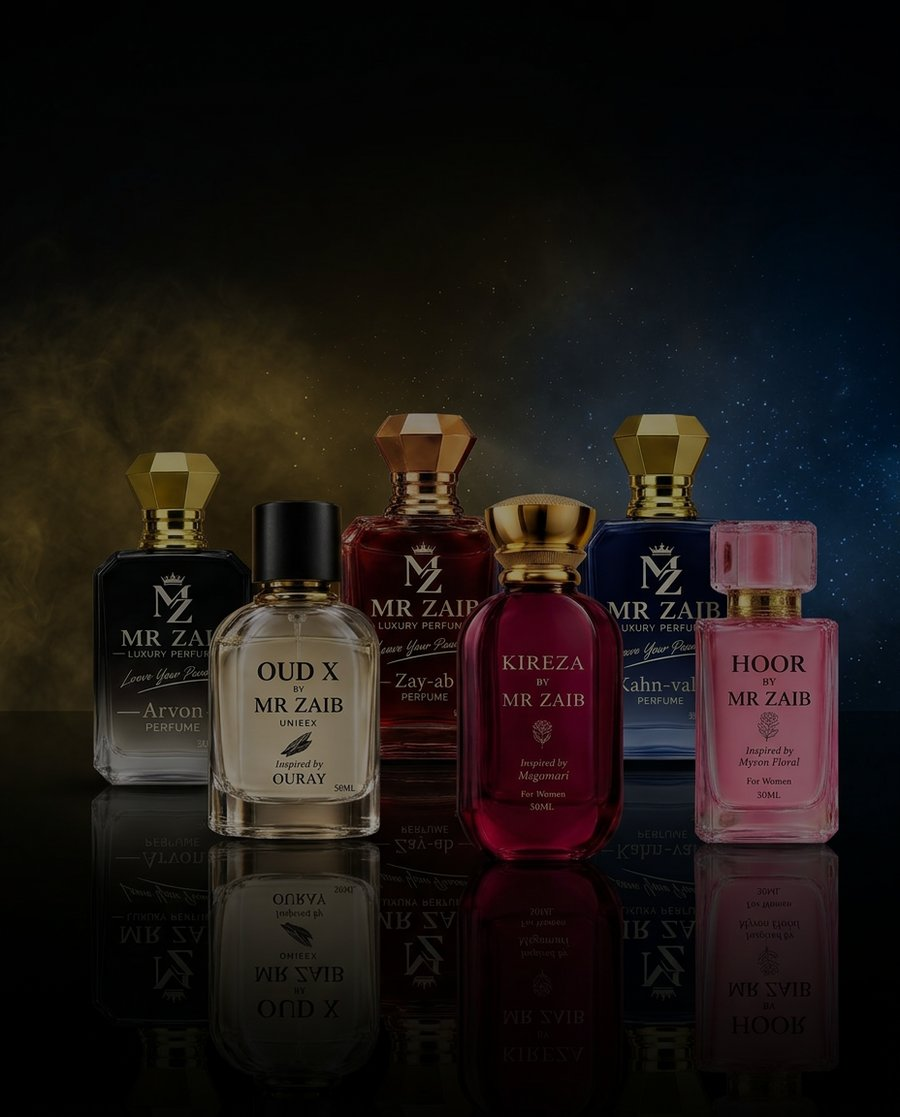
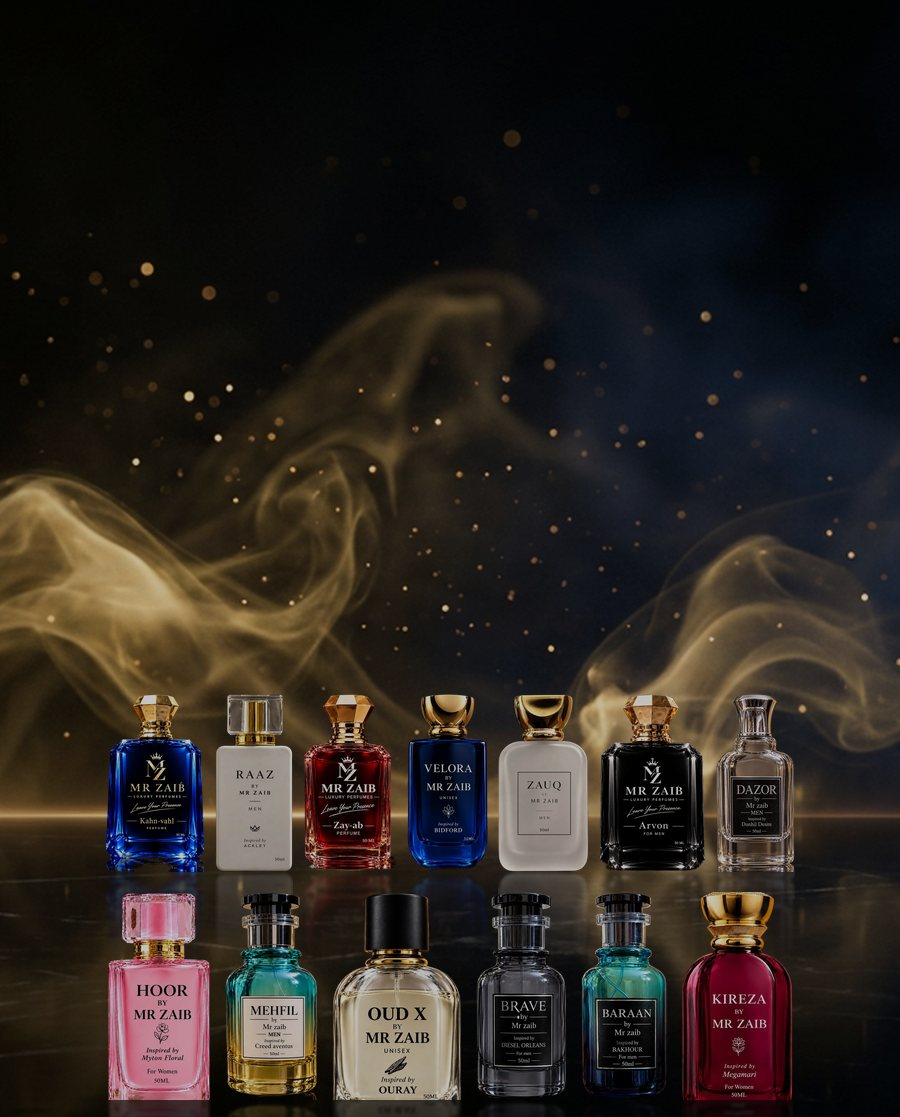
Home: hero slides 8-14 (RAAZ, Velora, ZAUQ, Mehfil, Dazor, Brave, Baraan), promo band and Trusted bg with all 13 bottles, SEO text v4 with new products

diff --git a/inc/home-defaults.php b/inc/home-defaults.php
@@ -6,43 +6,60 @@
  */
 
 function mrzaib_seo_default_intro() {
-	return '<strong>MR ZAIB Luxury Perfumes</strong> is a Pakistani perfume brand creating <strong>long lasting perfumes</strong> for men, women and unisex lovers. Our promise is simple: <em>Leave Your Presence</em>. Choose from six signature 50ml fragrances: the fresh aquatic Kahn-vahl and the royal oriental Zay-ab for men, the fruity floral Hoor and the glamorous Kireza for women, and the bold Arvon and woody OUD X for everyone, with prices from Rs. 2,500 and Cash on Delivery all over Pakistan. Whether you want an everyday signature scent, an <strong>oud perfume</strong>, a wedding perfume or a thoughtful gift, MR ZAIB has the <strong>best perfume in Pakistan</strong> for you.';
+	return '<strong>MR ZAIB Luxury Perfumes</strong> is a Pakistani perfume brand creating <strong>long lasting perfumes</strong> for men, women and unisex lovers. Our promise is simple: <em>Leave Your Presence</em>. Choose from thirteen signature 50ml fragrances: <strong>perfumes for men</strong> like Kahn-vahl, Zay-ab, RAAZ, ZAUQ, Mehfil, Dazor, Brave and Baraan, <strong>perfumes for women</strong> like Hoor and Kireza, and <strong>unisex perfumes</strong> like Arvon, Velora and OUD X, with prices from Rs. 2,500 and Cash on Delivery all over Pakistan. Whether you want a fresh everyday scent, an <strong>oud perfume</strong>, a bakhoor-style Arabic fragrance, a wedding perfume or a thoughtful gift, MR ZAIB has the <strong>best perfume in Pakistan</strong> for you.';
 }
 
 function mrzaib_seo_default_more() {
+	$p = function ( $slug, $text ) {
+		return '<a href="' . esc_url( mrzaib_product_link( $slug ) ) . '">' . $text . '</a>';
+	};
 	return '<p>At <strong>MR ZAIB</strong>, we put most of our cost into the perfume oil itself, so you get a high concentration, <strong>super macerated perfume</strong> at affordable prices from Rs. 2,500. We share the full top, middle and base notes of every fragrance, so you can choose a scent that matches your personality before you buy.</p>' .
-		'<h3>Kahn-vahl: Long Lasting Perfume for Men</h3>' .
-		'<p><a href="' . esc_url( mrzaib_product_link( 'kahn-vahl-perfume' ) ) . '">Kahn-vahl perfume for men</a> is a fresh aquatic fragrance in a deep blue bottle. Top notes of coconut water, a heart of jasmine and iris, and a warm base of vanilla, sandalwood and amber make it a versatile scent for the office, outings and summer evenings.</p>' .
-		'<h3>Zay-ab: Oriental Perfume for Men</h3>' .
-		'<p><a href="' . esc_url( mrzaib_product_link( 'zay-ab-perfume' ) ) . '">Zay-ab perfume for men</a> (Zayab) is a royal oriental fragrance in a crystal-cut red bottle. Aldehydes, lily of the valley and rose open into frankincense, mystikal and labdanum, settling on white musk, benzoin and ambergris. A smoky, warm scent for weddings, Eid, Jummah and winter nights.</p>' .
-		'<h3>Hoor: Floral Perfume for Women</h3>' .
-		'<p><a href="' . esc_url( mrzaib_product_link( 'hoor-perfume' ) ) . '">Hoor perfume for women</a>, inspired by Myton Floral, is a sweet fruity floral scent in a pink bottle. Black currant, pineapple, orange and red apple bloom into rose, freesia and peony, with a soft base of musk, iris and sandalwood. A graceful ladies perfume for every day, gifts and celebrations.</p>' .
-		'<h3>Kireza: Long Lasting Perfume for Women</h3>' .
-		'<p><a href="' . esc_url( mrzaib_product_link( 'kireza-perfume' ) ) . '">Kireza perfume for women</a>, inspired by Megamari, is a bold, glamorous fragrance in a ruby red bottle with a gold crown cap. Raspberry, rose and black currant flow into a fresh marine heart of seaweed, calone and hedione, finishing on musk, ambroxan and cedar. A strong, long lasting ladies perfume for parties, weddings and evenings out.</p>' .
-		'<h3>Arvon: Unisex Perfume for Men and Women</h3>' .
-		'<p><a href="' . esc_url( mrzaib_product_link( 'arvon-perfume' ) ) . '">Arvon unisex perfume</a> is a bold fragrance in a black bottle. Pineapple, red apple, plum, nutmeg, cinnamon and bitter orange open into magnolia, orchid, lily-of-the-valley, jasmine, Moroccan rose and iris, finishing on cacao, vanilla, white musk, amber, sandalwood and cedar.</p>' .
-		'<h3>OUD X: Unisex Oud Perfume</h3>' .
-		'<p><a href="' . esc_url( mrzaib_product_link( 'oud-x-perfume' ) ) . '">OUD X unisex oud perfume</a>, inspired by Ouray, blends aquatic notes, bergamot and citrus with a warm heart of cinnamon and apple, drying down to ambergris, musk and rich woods. A modern, long lasting oud-style fragrance for men and women, perfect for the office, Jummah, weddings and winter nights.</p>' .
+		'<h3>Best Long Lasting Perfumes for Men in Pakistan</h3>' .
+		'<p>' . $p( 'kahn-vahl-perfume', 'Kahn-vahl perfume for men' ) . ' is a fresh aquatic fragrance in a deep blue bottle, with coconut water, jasmine, iris, vanilla, sandalwood and amber for the office, outings and summer evenings.</p>' .
+		'<p>' . $p( 'zay-ab-perfume', 'Zay-ab perfume for men' ) . ' (Zayab) is a royal oriental scent of rose, frankincense, labdanum, white musk, benzoin and ambergris, made for weddings, Eid, Jummah and winter nights.</p>' .
+		'<p>' . $p( 'raaz-perfume', 'RAAZ perfume for men' ) . ' is a warm, spicy tobacco fragrance: red apple and mandarin, then pepper and sage, on a rich base of tobacco, benzoin, woods and patchouli. A confident evening and winter perfume.</p>' .
+		'<p>' . $p( 'zauq-perfume', 'ZAUQ perfume for men' ) . ' is an aromatic woody scent of amber, citrus, herbs, musk and warm spice, a refined everyday perfume for the office and evenings.</p>' .
+		'<p>' . $p( 'mehfil-perfume', 'Mehfil perfume for men' ) . ', inspired by Creed Aventus, opens with bergamot, black currant, apple and pink pepper, with a pineapple and jasmine heart and a smoky base of birch, oak moss, musk and ambroxan. The scent that owns every gathering.</p>' .
+		'<p>' . $p( 'dazor-perfume', 'Dazor perfume for men' ) . ', inspired by Dunhill Desire, is fresh and fruity with apple, lemon, bergamot and orange blossom, rose, teak wood and patchouli, and a smooth vanilla musk finish. A great daily perfume for office and university.</p>' .
+		'<p>' . $p( 'brave-perfume', 'Brave perfume for men' ) . ' is a juicy, fearless fragrance of lemon, mandarin, guava and peach, licorice and white flowers, and a creamy sandalwood, musk and cedar base. Perfect for summer and parties.</p>' .
+		'<p>' . $p( 'baraan-perfume', 'Baraan perfume for men' ) . ', inspired by Bakhour, brings the warmth of traditional bakhoor in amber, woods and vanilla with a soft floral fruity glow. A rich Arabic-style perfume for Eid, Jummah and weddings.</p>' .
+		'<h3>Best Long Lasting Perfumes for Women in Pakistan</h3>' .
+		'<p>' . $p( 'hoor-perfume', 'Hoor perfume for women' ) . ', inspired by Myton Floral, is a sweet fruity floral scent in a pink bottle: black currant, pineapple and red apple bloom into rose, freesia and peony over musk, iris and sandalwood.</p>' .
+		'<p>' . $p( 'kireza-perfume', 'Kireza perfume for women' ) . ', inspired by Megamari, is a bold, glamorous fragrance of raspberry, rose and black currant with a fresh marine heart and a musk, ambroxan and cedar base, made for parties, weddings and evenings out.</p>' .
+		'<h3>Best Unisex Perfumes for Men and Women</h3>' .
+		'<p>' . $p( 'arvon-perfume', 'Arvon unisex perfume' ) . ' blends pineapple, red apple and spice with Moroccan rose, jasmine and iris, finishing on cacao, vanilla, white musk and amber.</p>' .
+		'<p>' . $p( 'velora-perfume', 'Velora unisex perfume' ) . ', inspired by Bidford, is a dark rose and leather scent: tomato leaf, spices and tuberose, dried rose and iris, on amber, metallic notes and leather.</p>' .
+		'<p>' . $p( 'oud-x-perfume', 'OUD X unisex oud perfume' ) . ', inspired by Ouray, blends bergamot and citrus with cinnamon and apple, drying down to ambergris, musk and rich woods, a modern oud-style fragrance for men and women.</p>' .
 		'<h3>Shop Perfumes by Category</h3>' .
 		'<p>Explore <a href="' . esc_url( mrzaib_cat_link( 'men' ) ) . '">perfumes for men</a>, <a href="' . esc_url( mrzaib_cat_link( 'women' ) ) . '">perfumes for women</a> and <a href="' . esc_url( mrzaib_cat_link( 'unisex' ) ) . '">unisex perfumes</a>, traditional <a href="' . esc_url( mrzaib_cat_link( 'attar' ) ) . '">Attar</a>, and perfume <a href="' . esc_url( mrzaib_cat_link( 'tester' ) ) . '">Testers</a> to try a scent before buying the full bottle.</p>' .
 		'<h3>Easy Returns and Cash on Delivery</h3>' .
-		'<p>Not sure about a scent? Our 15 days easy returns policy has you covered, and you can pay cash when your order arrives anywhere in Pakistan, from Karachi and Lahore to Islamabad.</p>' .
-		'<p><strong>Buy high quality, long lasting perfumes online in Pakistan at affordable prices.</strong></p>';
+		'<p>Not sure about a scent? Our 15 days easy returns policy has you covered, and you can pay cash when your order arrives anywhere in Pakistan, from Karachi and Lahore to Islamabad, Rawalpindi, Faisalabad, Multan and Peshawar.</p>' .
+		'<p><strong>Buy high quality, long lasting perfumes online in Pakistan at affordable prices with MR ZAIB.</strong></p>';
 }
 
-/* SEO text v3 (6 perfumes): a saved Customizer value that is still the old theme text is
+/* SEO text v4 (13 perfumes): a saved Customizer value that is still an older theme text is
    cleared once, so the new text shows. Text the admin wrote is left alone. */
 add_action( 'init', function () {
-	if ( (int) get_option( 'mrzaib_seo_text_v' ) >= 3 ) {
+	if ( (int) get_option( 'mrzaib_seo_text_v' ) >= 4 ) {
 		return;
 	}
-	foreach ( array( 'mrzaib_seo_intro' => 'MR ZAIB has a scent for you.', 'mrzaib_seo_more' => 'Arvon: Unisex Perfume for Men and Women' ) as $mod => $old ) {
+	$marks = array(
+		'mrzaib_seo_intro' => array( 'MR ZAIB has a scent for you.', 'has the <strong>best perfume in Pakistan</strong> for you.' ),
+		'mrzaib_seo_more'  => array( 'Arvon: Unisex Perfume for Men and Women', 'Shop Perfumes by Category' ),
+	);
+	foreach ( $marks as $mod => $olds ) {
 		$v = (string) get_theme_mod( $mod, '' );
-		if ( '' !== $v && false !== strpos( $v, $old ) && false === strpos( $v, 'Kireza' ) ) {
-			remove_theme_mod( $mod );
+		if ( '' === $v || false !== strpos( $v, 'Baraan' ) ) {
+			continue;
+		}
+		foreach ( $olds as $old ) {
+			if ( false !== strpos( $v, $old ) ) {
+				remove_theme_mod( $mod );
+				break;
+			}
 		}
 	}
-	update_option( 'mrzaib_seo_text_v', 3 );
+	update_option( 'mrzaib_seo_text_v', 4 );
 }, 20 );
 
 /** Theme icon file for feature N (1-4). */
@@ -86,7 +103,7 @@ function mrzaib_video_product( $n ) {
  * as real media (with previews) and can be picked again from Media.
  * Only fields still using the theme default (or empty) are changed.
  */
-define( 'MRZAIB_HOME_MEDIA_V', 4 );
+define( 'MRZAIB_HOME_MEDIA_V', 5 );
 
 function mrzaib_home_media_items() {
 	$items = array();
@@ -99,9 +116,9 @@ function mrzaib_home_media_items() {
 		$items[ 'hero_img_' . $i ] = array( 'assets/images/hero-' . $i . '-desktop.jpg', $d[0] );
 		$items[ 'hero_mob_' . $i ] = array( 'assets/images/hero-' . $i . '-mobile.jpg', $d[1] );
 	}
-	/* Third value = version tag: a new tag imports the updated file again (v4 = 6 bottles). */
-	$items['promo_img_d'] = array( 'assets/images/promo-band-desktop.jpg', MRZAIB_URI . '/assets/images/promo-band-desktop.jpg', 'v4' );
-	$items['promo_img_m'] = array( 'assets/images/promo-band-mobile.jpg', MRZAIB_URI . '/assets/images/promo-band-mobile.jpg', 'v4' );
+	/* Third value = version tag: a new tag imports the updated file again (v5 = 13 bottles). */
+	$items['promo_img_d'] = array( 'assets/images/promo-band-desktop.jpg', MRZAIB_URI . '/assets/images/promo-band-desktop.jpg', 'v5' );
+	$items['promo_img_m'] = array( 'assets/images/promo-band-mobile.jpg', MRZAIB_URI . '/assets/images/promo-band-mobile.jpg', 'v5' );
 	return $items;
 }
 

diff --git a/inc/customizer.php b/inc/customizer.php
@@ -44,10 +44,10 @@ function mrzaib_customize( $wp_customize ) {
 			}
 		}
 	}
-	$wp_customize->add_setting( 'mrzaib_hero_count', array( 'default' => 7, 'sanitize_callback' => 'absint' ) );
+	$wp_customize->add_setting( 'mrzaib_hero_count', array( 'default' => 14, 'sanitize_callback' => 'absint' ) );
 	$wp_customize->add_control( 'mrzaib_hero_count', array(
 		'label'       => __( 'Number of slides', 'mrzaib' ),
-		'description' => __( 'Increase to add a new slide (max 10). To delete a slide, use the "Remove slide" button under it. Image alt text (SEO) comes from the image in Media Library (Alt Text field).', 'mrzaib' ),
+		'description' => __( 'Increase to add a new slide (max 16). To delete a slide, use the "Remove slide" button under it. Image alt text (SEO) comes from the image in Media Library (Alt Text field).', 'mrzaib' ),
 		'section'     => 'mrzaib_hero',
 		'type'        => 'number',
 		'input_attrs' => array( 'min' => 1, 'max' => MRZAIB_HERO_MAX, 'step' => 1 ),
@@ -143,7 +143,7 @@ if ( ! defined( 'MRZAIB_VIDEO_MAX' ) ) {
 	define( 'MRZAIB_VIDEO_MAX', 12 );
 }
 if ( ! defined( 'MRZAIB_HERO_MAX' ) ) {
-	define( 'MRZAIB_HERO_MAX', 10 );
+	define( 'MRZAIB_HERO_MAX', 16 );
 }
 
 /** Built-in hero slides (desktop, mobile, link, alt). */
@@ -156,6 +156,13 @@ function mrzaib_hero_defaults() {
 		5 => array( mrzaib_img( 'hero-5-desktop.jpg' ), mrzaib_img( 'hero-5-mobile.jpg' ), mrzaib_product_slug_link( 'hoor-perfume', 'women' ), 'Hoor long lasting floral perfume for women by MR ZAIB' ),
 		6 => array( mrzaib_img( 'hero-6-desktop.jpg' ), mrzaib_img( 'hero-6-mobile.jpg' ), mrzaib_product_slug_link( 'kireza-perfume', 'women' ), 'Kireza long lasting perfume for women by MR ZAIB' ),
 		7 => array( mrzaib_img( 'hero-7-desktop.jpg' ), mrzaib_img( 'hero-7-mobile.jpg' ), mrzaib_product_slug_link( 'oud-x-perfume', 'unisex' ), 'OUD X long lasting unisex oud perfume by MR ZAIB' ),
+		8 => array( mrzaib_img( 'hero-8-desktop.jpg' ), mrzaib_img( 'hero-8-mobile.jpg' ), mrzaib_product_slug_link( 'raaz-perfume', 'men' ), 'RAAZ long lasting perfume for men by MR ZAIB' ),
+		9 => array( mrzaib_img( 'hero-9-desktop.jpg' ), mrzaib_img( 'hero-9-mobile.jpg' ), mrzaib_product_slug_link( 'velora-perfume', 'unisex' ), 'Velora long lasting unisex perfume by MR ZAIB' ),
+		10 => array( mrzaib_img( 'hero-10-desktop.jpg' ), mrzaib_img( 'hero-10-mobile.jpg' ), mrzaib_product_slug_link( 'zauq-perfume', 'men' ), 'ZAUQ long lasting aromatic woody perfume for men by MR ZAIB' ),
+		11 => array( mrzaib_img( 'hero-11-desktop.jpg' ), mrzaib_img( 'hero-11-mobile.jpg' ), mrzaib_product_slug_link( 'mehfil-perfume', 'men' ), 'Mehfil long lasting fruity woody perfume for men by MR ZAIB' ),
+		12 => array( mrzaib_img( 'hero-12-desktop.jpg' ), mrzaib_img( 'hero-12-mobile.jpg' ), mrzaib_product_slug_link( 'dazor-perfume', 'men' ), 'Dazor long lasting fresh fruity perfume for men by MR ZAIB' ),
+		13 => array( mrzaib_img( 'hero-13-desktop.jpg' ), mrzaib_img( 'hero-13-mobile.jpg' ), mrzaib_product_slug_link( 'brave-perfume', 'men' ), 'Brave long lasting fresh fruity perfume for men by MR ZAIB' ),
+		14 => array( mrzaib_img( 'hero-14-desktop.jpg' ), mrzaib_img( 'hero-14-mobile.jpg' ), mrzaib_product_slug_link( 'baraan-perfume', 'men' ), 'Baraan long lasting amber woody bakhoor perfume for men by MR ZAIB' ),
 	);
 }
 
@@ -251,20 +258,20 @@ function mrzaib_product_slug_link( $slug, $cat ) {
 	return ( $p && 'publish' === $p->post_status ) ? get_permalink( $p ) : mrzaib_cat_link( $cat );
 }
 
-/* One-time: show the new slides (Zay-ab/Hoor: 3 -> 5, Kireza/OUD X: 5 -> 7) for stores still on an old default. */
+/* One-time: show the new slides (3 -> 5 -> 7, then RAAZ to Baraan: 7 -> 14) for stores still on an old default. */
 add_action( 'init', function () {
-	if ( get_option( 'mrzaib_hero_v' ) === '7' ) {
+	if ( get_option( 'mrzaib_hero_v' ) === '14' ) {
 		return;
 	}
 	$c = get_theme_mod( 'mrzaib_hero_count' );
-	if ( false === $c || in_array( (int) $c, array( 3, 5 ), true ) ) {
-		set_theme_mod( 'mrzaib_hero_count', 7 );
+	if ( false === $c || in_array( (int) $c, array( 3, 5, 7 ), true ) ) {
+		set_theme_mod( 'mrzaib_hero_count', 14 );
 	}
-	update_option( 'mrzaib_hero_v', '7' );
+	update_option( 'mrzaib_hero_v', '14' );
 } );
 
 function mrzaib_hero_count() {
-	return max( 1, min( MRZAIB_HERO_MAX, (int) get_theme_mod( 'mrzaib_hero_count', 7 ) ) );
+	return max( 1, min( MRZAIB_HERO_MAX, (int) get_theme_mod( 'mrzaib_hero_count', 14 ) ) );
 }
 
 /** Slides to render: [desktop, mobile, link, alt]; slides without a desktop image are skipped. */
